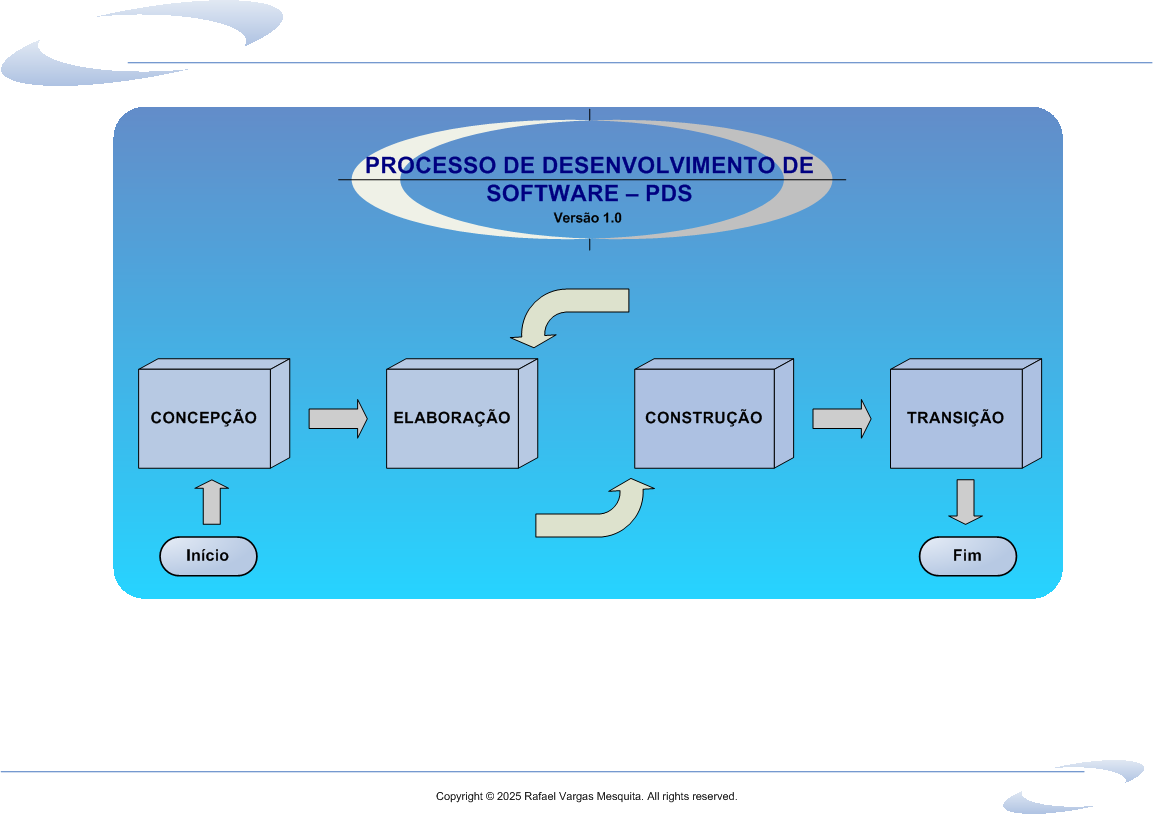
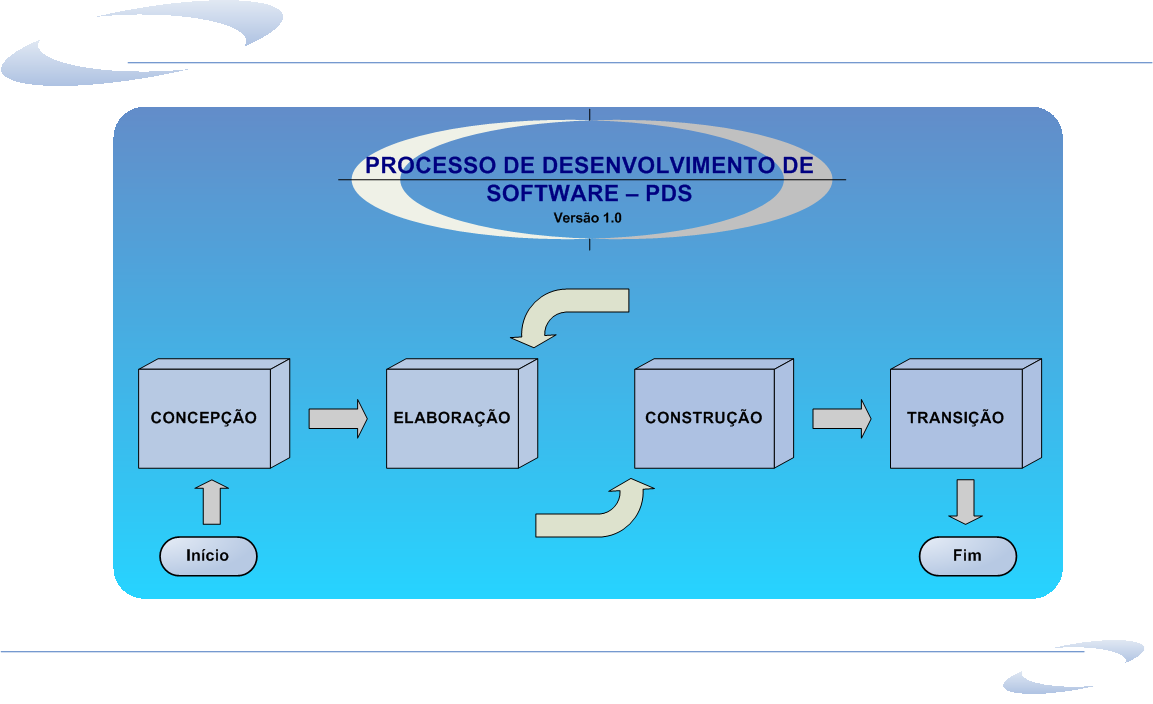
docs: modificação do rodapé

diff --git a/PDS_01_arquivos/visio.css b/PDS_01_arquivos/visio.css
@@ -184,6 +184,37 @@ BODY
 	font-size: medium;
 }
 
+BODY.pageView
+{
+	margin: 0;
+	padding-bottom: 40px;
+}
+
+.pageFooter
+{
+	position: fixed;
+	left: 0;
+	right: 0;
+	bottom: 0;
+	padding: 8px 12px;
+	font-size: 12px;
+	text-align: center;
+	background: rgba(255, 255, 255, 0.92);
+	border-top: 1px solid #e0e0e0;
+	z-index: 20;
+}
+
+.pageFooter A
+{
+	color: #333333;
+	text-decoration: none;
+}
+
+.pageFooter A:hover
+{
+	text-decoration: underline;
+}
+
 DIV
 {
 	margin:0;

diff --git a/PDS_01_arquivos/png_1.htm b/PDS_01_arquivos/png_1.htm
@@ -137,6 +137,9 @@ document.onclick = clickMenu;
 
 </DIV>
 
+<div class="pageFooter">
+  <a href="http://lattes.cnpq.br/6616283627544820" target="_top" rel="noopener noreferrer">Copyright © 2025 Rafael Vargas Mesquita. All rights reserved.</a>
+</div>
+
 </body>
 </html>
-

diff --git a/PDS_01_arquivos/png_2.htm b/PDS_01_arquivos/png_2.htm
@@ -173,6 +173,9 @@ document.onclick = clickMenu;
 
 </DIV>
 
+<div class="pageFooter">
+  <a href="http://lattes.cnpq.br/6616283627544820" target="_top" rel="noopener noreferrer">Copyright © 2026 Rafael Vargas Mesquita. All rights reserved.</a>
+</div>
+
 </body>
 </html>
-
